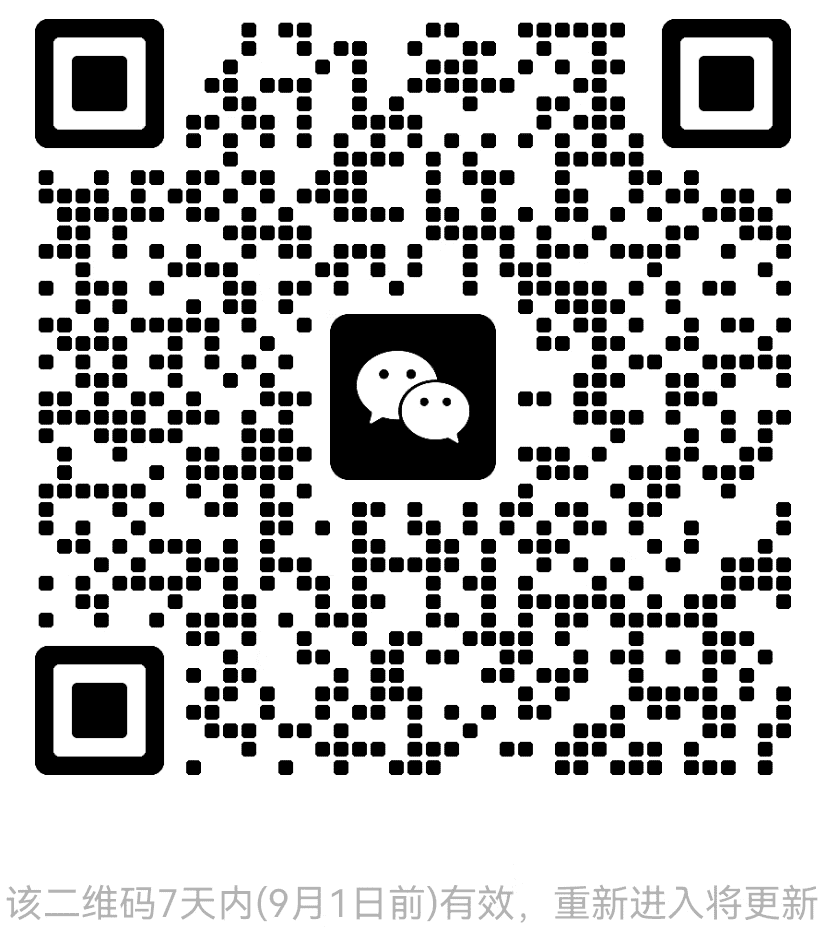
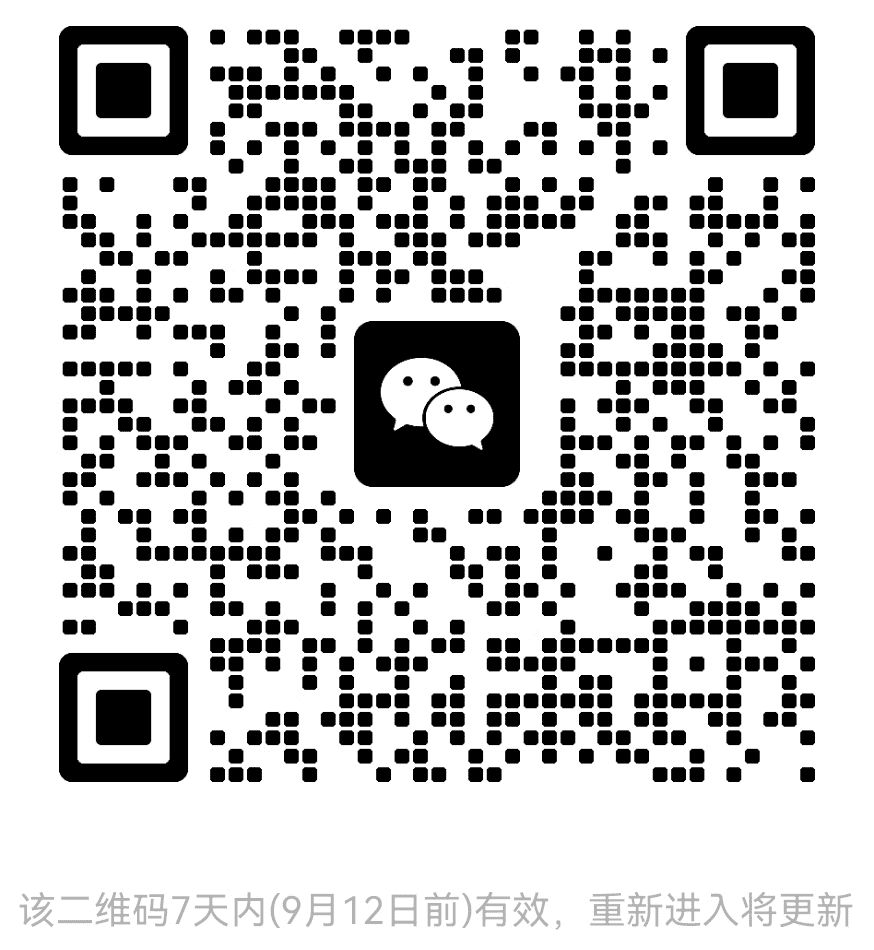
Update weixin

diff --git a/README-zh.md b/README-zh.md
@@ -8,7 +8,7 @@
 [![Percentage of issues still open](http://isitmaintained.com/badge/open/jd-opensource/joylive-agent.svg)](http://isitmaintained.com/project/jd-opensource/joylive-agent "Percentage of issues still open")
 [![Slack Status](https://img.shields.io/badge/slack-join_chat-white.svg?logo=slack&style=social)](https://joylivehq.slack.com)
 
-<img src="docs/image/weixin.png" title="该二维码有效期截止到2025/09/01" width="150"  />
+<img src="docs/image/weixin.png" title="该二维码有效期截止到2025/09/12" width="150"  />
 
 [English](./README.md) | 简体中文
 

diff --git a/README.md b/README.md
@@ -8,7 +8,7 @@
 [![Percentage of issues still open](http://isitmaintained.com/badge/open/jd-opensource/joylive-agent.svg)](http://isitmaintained.com/project/jd-opensource/joylive-agent "Percentage of issues still open")
 [![Slack Status](https://img.shields.io/badge/slack-join_chat-white.svg?logo=slack&style=social)](https://joylivehq.slack.com)
 
-<img src="docs/image/weixin.png" title="The QR code is valid until 2025/09/01" width="150" />
+<img src="docs/image/weixin.png" title="The QR code is valid until 2025/09/12" width="150" />
 
 English | [简体中文](./README-zh.md)
 
